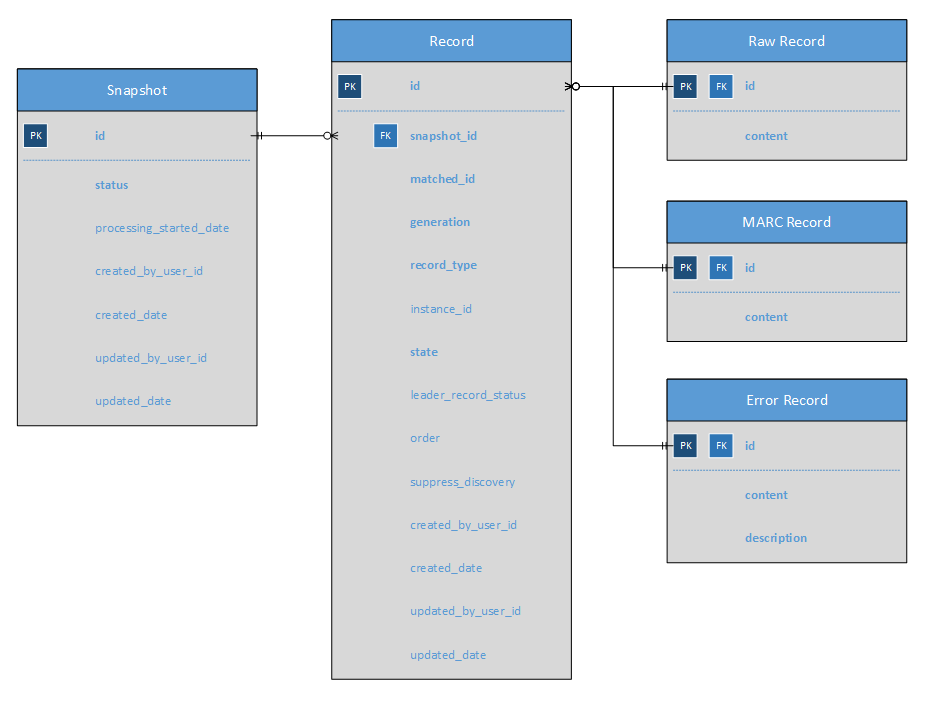
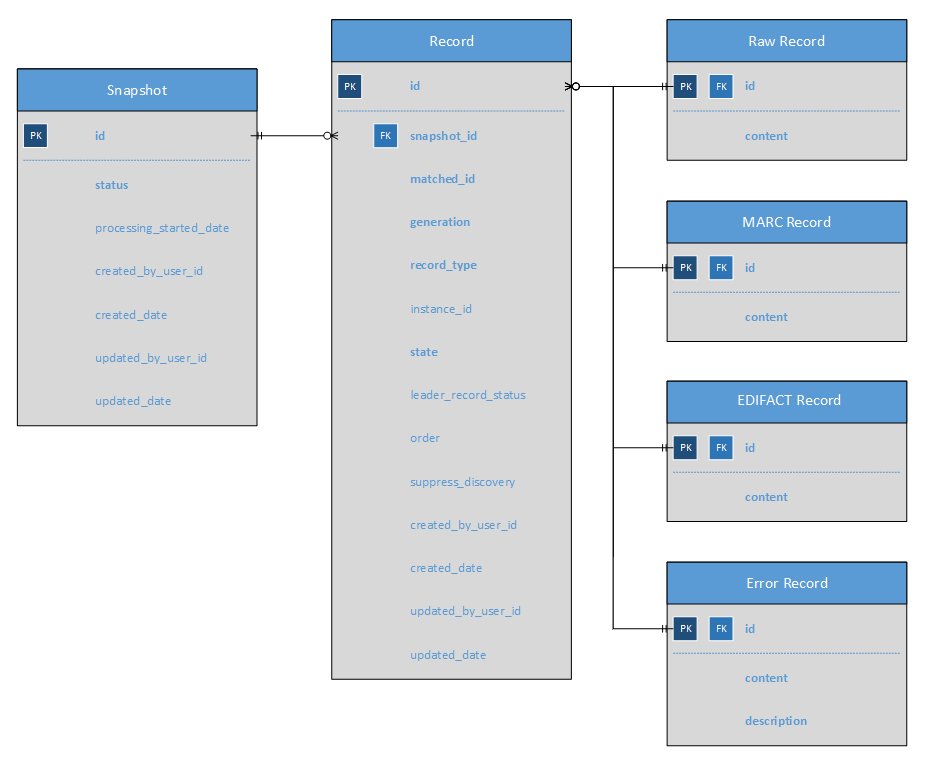
update readme and er diagram

diff --git a/README.md b/README.md
@@ -129,7 +129,7 @@ To simplify the tracking of schemas changes, the tenant versioning is displayed 
 
 ### Database redesign
 
-The database has recently been redesigned to use standard relational table design with less usage of JSONB columns and more use of foreign key constraints and default B-tree indexes optimized for single value columns. The rational was to improve performance of data retrieval and data import. A significant change was the addition of `leader_record_status` column on the `records` table that is populated via a trigger on insert and update on the `marc_records` table. This not only provides ability to query on status of MARC record but also ability to condition on it presence to page results prior to join between `records` and `marc_records`.
+The database has recently been redesigned to use standard relational table design with less usage of JSONB columns and more use of foreign key constraints and default B-tree indexes optimized for single value columns. The rational was to improve performance of data retrieval and data import. A significant change was the addition of `leader_record_status` column on the `records` table that is populated via a trigger on insert and update on the `marc_records` table. This provides ability to query on status of MARC record quickly and also condition appropriate leader recrod status that indicate the record has been deleted.
 
 <img src="er-diagram.png" alt="Source Record Storage ER Diagram" style="display:block; float:none; margin-left:auto; margin-right:auto;" />
 
